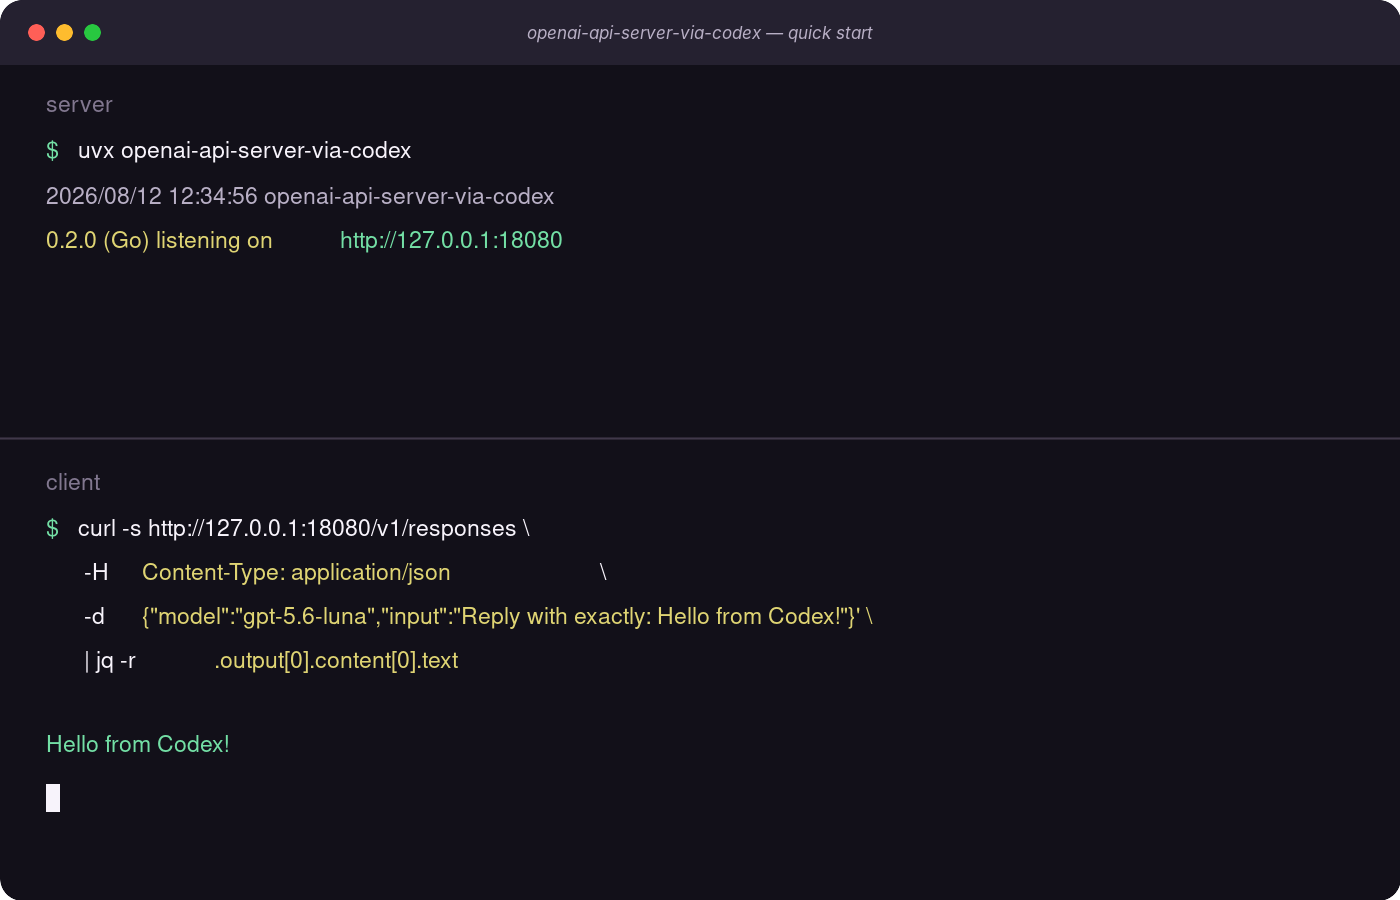
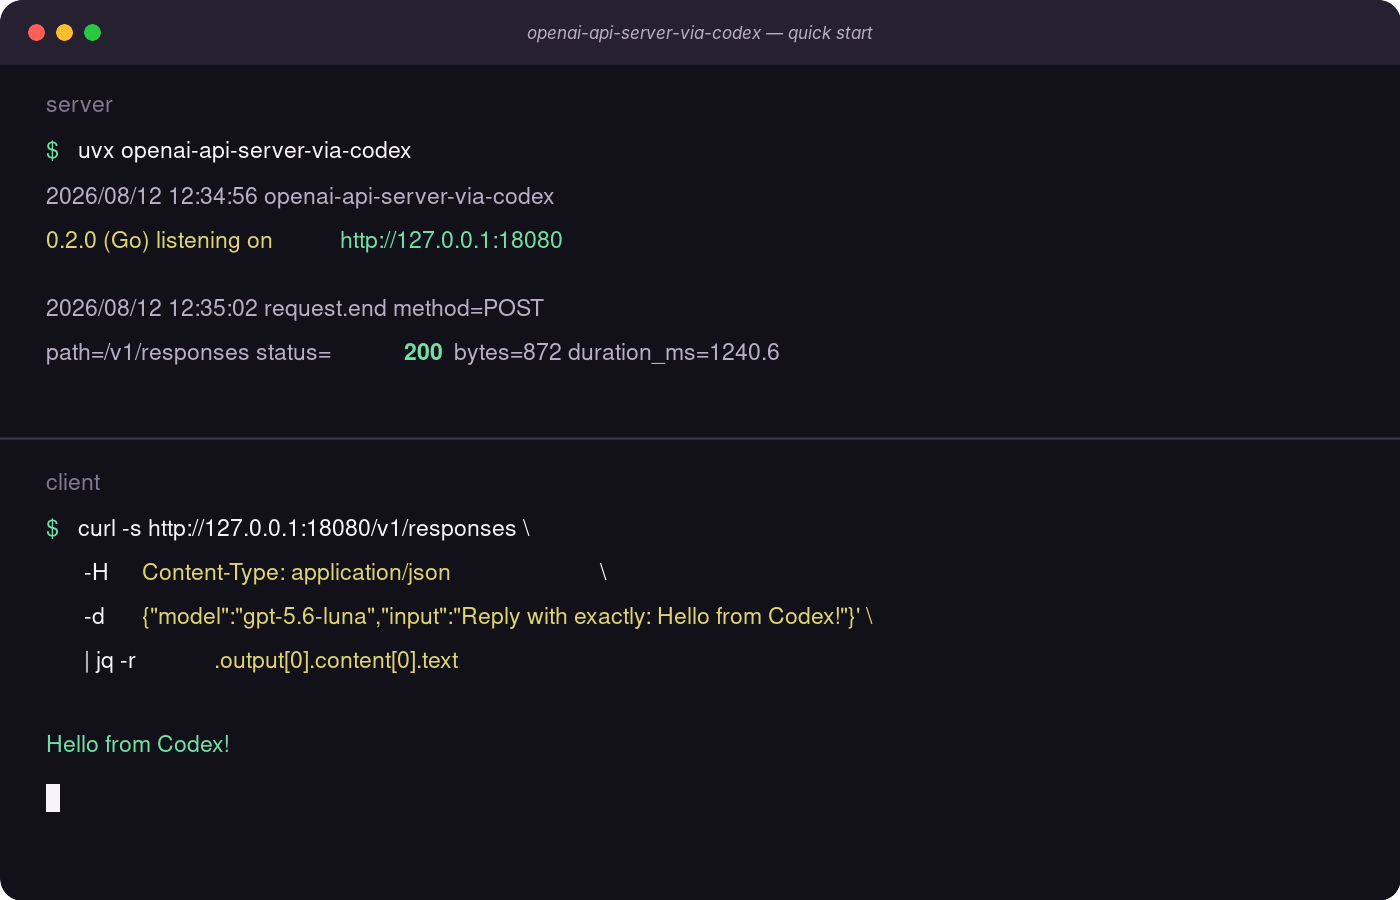
Restore default Go access logs

Changed region(s): [[0.0307, 0.3111, 0.5529, 0.4044]]

diff --git a/internal/app/server_test.go b/internal/app/server_test.go
@@ -99,6 +99,41 @@ func TestVerboseRequestLogRedactsQuerySecrets(t *testing.T) {
 	}
 }
 
+func TestRequestCompletionLogIsEnabledWithoutVerbose(t *testing.T) {
+	var output bytes.Buffer
+	previousOutput := log.Writer()
+	previousFlags := log.Flags()
+	log.SetOutput(&output)
+	log.SetFlags(0)
+	t.Cleanup(func() {
+		log.SetOutput(previousOutput)
+		log.SetFlags(previousFlags)
+	})
+
+	s := &server{cfg: config{}, backend: faultBackend{}}
+	response := httptest.NewRecorder()
+	s.ServeHTTP(response, httptest.NewRequest(http.MethodGet, "/v1/models", nil))
+	if response.Code != http.StatusOK {
+		t.Fatalf("status = %d", response.Code)
+	}
+	logs := output.String()
+	for _, expected := range []string{"request.end", "method=GET", "path=/v1/models", "status=200", "bytes="} {
+		if !strings.Contains(logs, expected) {
+			t.Fatalf("log missing %q: %s", expected, logs)
+		}
+	}
+	if strings.Contains(logs, "request.start") {
+		t.Fatalf("non-verbose log contains request start: %s", logs)
+	}
+
+	output.Reset()
+	health := httptest.NewRecorder()
+	s.ServeHTTP(health, httptest.NewRequest(http.MethodGet, "/healthz", nil))
+	if output.Len() != 0 {
+		t.Fatalf("default health check produced access-log noise: %s", output.String())
+	}
+}
+
 func TestDecodeObjectRejectsNullAndTrailingData(t *testing.T) {
 	for _, body := range []string{"null", `{"ok":true} {"extra":true}`} {
 		request := httptest.NewRequest(http.MethodPost, "/v1/responses", strings.NewReader(body))

diff --git a/internal/app/redaction_test.go b/internal/app/redaction_test.go
@@ -6,11 +6,14 @@ import (
 )
 
 func TestRedactSensitive(t *testing.T) {
-	raw := "Authorization: Bearer secret-token access_token=another-secret eyJabc.def.ghi"
+	raw := "Authorization: Bearer secret-token access_token=another-secret eyJabc.def.ghi\nforged-log-line"
 	got := redactSensitive(raw)
 	for _, secret := range []string{"secret-token", "another-secret", "eyJabc.def.ghi"} {
 		if strings.Contains(got, secret) {
 			t.Fatalf("secret %q remains in %q", secret, got)
 		}
+	}
+	if strings.ContainsAny(got, "\r\n") || !strings.Contains(got, "forged-log-line") {
+		t.Fatalf("control characters were not flattened in %q", got)
 	}
 }

diff --git a/internal/app/redaction.go b/internal/app/redaction.go
@@ -7,10 +7,11 @@ var sensitivePatterns = []*regexp.Regexp{
 	regexp.MustCompile(`(?i)((?:access_token|refresh_token|id_token|api_key)\s*[=:]\s*)[^\s,;"']+`),
 	regexp.MustCompile(`\beyJ[A-Za-z0-9_-]+\.[A-Za-z0-9_-]+\.[A-Za-z0-9_-]+\b`),
 }
+var logControlCharacters = regexp.MustCompile(`[\x00-\x1f\x7f]`)
 
 func redactSensitive(value string) string {
 	for _, pattern := range sensitivePatterns {
 		value = pattern.ReplaceAllString(value, `${1}[REDACTED]`)
 	}
-	return value
+	return logControlCharacters.ReplaceAllString(value, " ")
 }

diff --git a/internal/app/server.go b/internal/app/server.go
@@ -110,7 +110,7 @@ func (s *server) ServeHTTP(w http.ResponseWriter, r *http.Request) {
 				writeError(capture, 500, "Internal server error.", "api_error", nil, nil)
 			}
 		}
-		if s.cfg.Verbose {
+		if r.URL.Path != "/healthz" || s.cfg.Verbose {
 			log.Printf("request.end method=%s path=%s status=%d bytes=%d duration_ms=%.1f", r.Method, redactSensitive(r.URL.Path), capture.statusCode(), capture.bytes, float64(time.Since(started).Microseconds())/1000)
 		}
 	}()

diff --git a/test/e2e/binary_test.go b/test/e2e/binary_test.go
@@ -130,6 +130,12 @@ func TestGoBinaryForegroundE2E(t *testing.T) {
 		}
 		reader.Close()
 		<-drainDone
+		serverLogs := readLogs(&logs, &logsMu)
+		for _, expected := range []string{"request.end method=POST", "path=/v1/responses", "status=200"} {
+			if !strings.Contains(serverLogs, expected) {
+				t.Fatalf("server access log missing %q; logs=%s", expected, serverLogs)
+			}
+		}
 	})
 }
 

diff --git a/AGENTS.md b/AGENTS.md
@@ -235,6 +235,9 @@ python scripts/release-notes.py vX.Y.Z
   endpoint summaries, model-list fallbacks, and Codex HTTP stream/auth behavior.
   Never log raw auth tokens. Use the shared redaction helpers when logging
   upstream errors, request query strings, or auth-related values.
+- Emit a redacted request completion/access log for API requests even when
+  verbose mode is disabled. Keep routine `/healthz` probes quiet by default and
+  include them only in verbose request lifecycle logs.
 - For Chat Completions, translate Responses stream events into
   `chat.completion.chunk` events.
 - Prefer structured Go parsing and the official OpenAI SDK consumer tests over

diff --git a/README.md b/README.md
@@ -477,9 +477,11 @@ backend:
 drop_params = ["temperature", "top_p"]
 ```
 
-Verbose logs include resolved settings, request lifecycle, endpoint summaries,
-and Codex stream/auth activity. Raw credentials and token-like values are
-redacted.
+Normal operation logs one completion line per API request with its method,
+redacted path, status, response size, and duration. Routine `/healthz` probes
+stay quiet. Verbose logs additionally include request starts and redacted query
+strings, resolved settings, endpoint summaries, and Codex stream/auth activity.
+Raw credentials and token-like values are redacted.
 
 </details>
 

diff --git a/docs/docker.md b/docs/docker.md
@@ -162,6 +162,10 @@ block of `docker-compose.yml`, for example:
 - `OPENAI_VIA_CODEX_TIMEOUT`, `OPENAI_VIA_CODEX_MAX_STORED_ITEMS`,
   `OPENAI_VIA_CODEX_MAX_CONCURRENT_REQUESTS` — backend timeout and bounds.
 
+Every API request emits a redacted completion line visible through
+`docker compose logs`; routine healthcheck probes stay quiet. Verbose mode adds
+request-start, configuration, endpoint, backend stream, and auth diagnostics.
+
 Alternatively, mount a `config.toml` and point the server at it:
 
 ```yaml

diff --git a/docs/releases/HEAD.md b/docs/releases/HEAD.md
@@ -14,3 +14,6 @@
   pulled anonymously.
 - Reloaded externally rotated Codex credentials after an upstream `401` and
   retried the request once before any response stream reaches the client.
+- Restored default API request completion logs in the Go server while keeping
+  routine container health checks quiet, and updated the quick-start preview to
+  show the Go access log.
